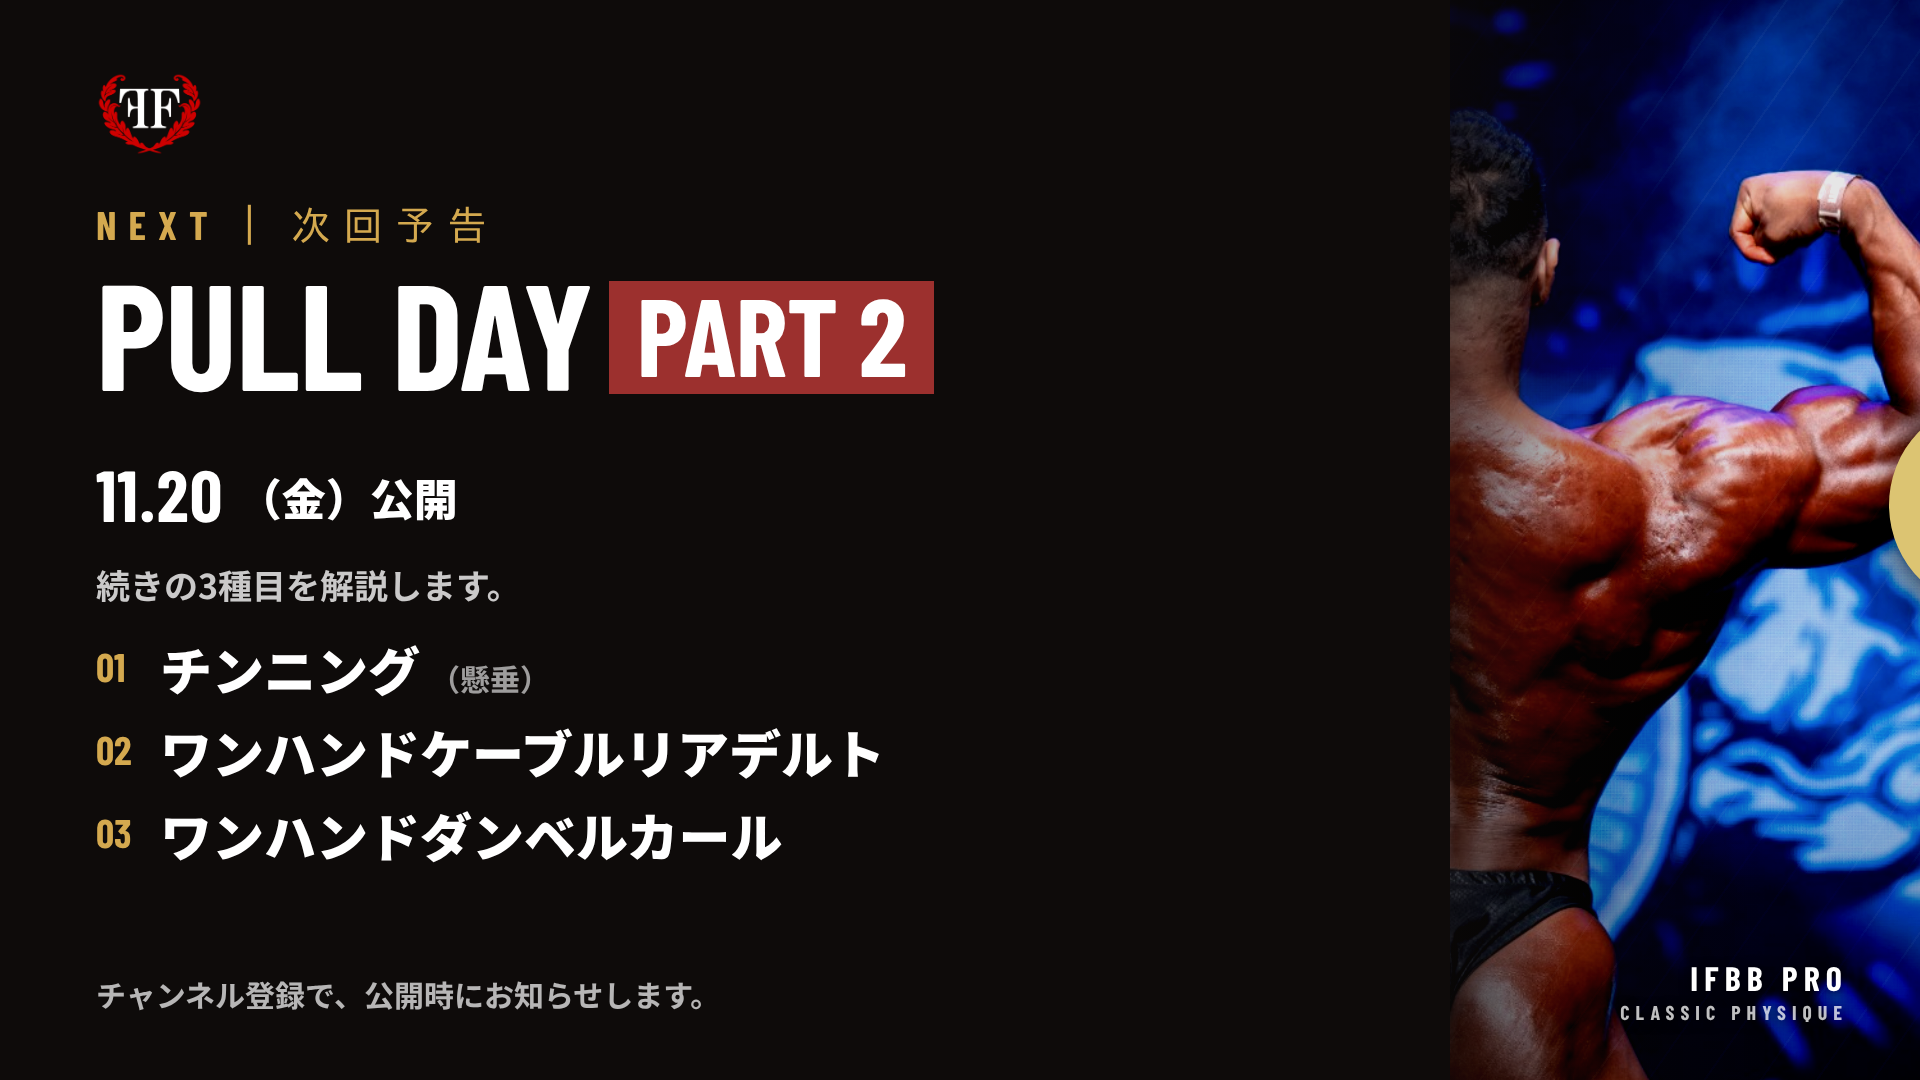
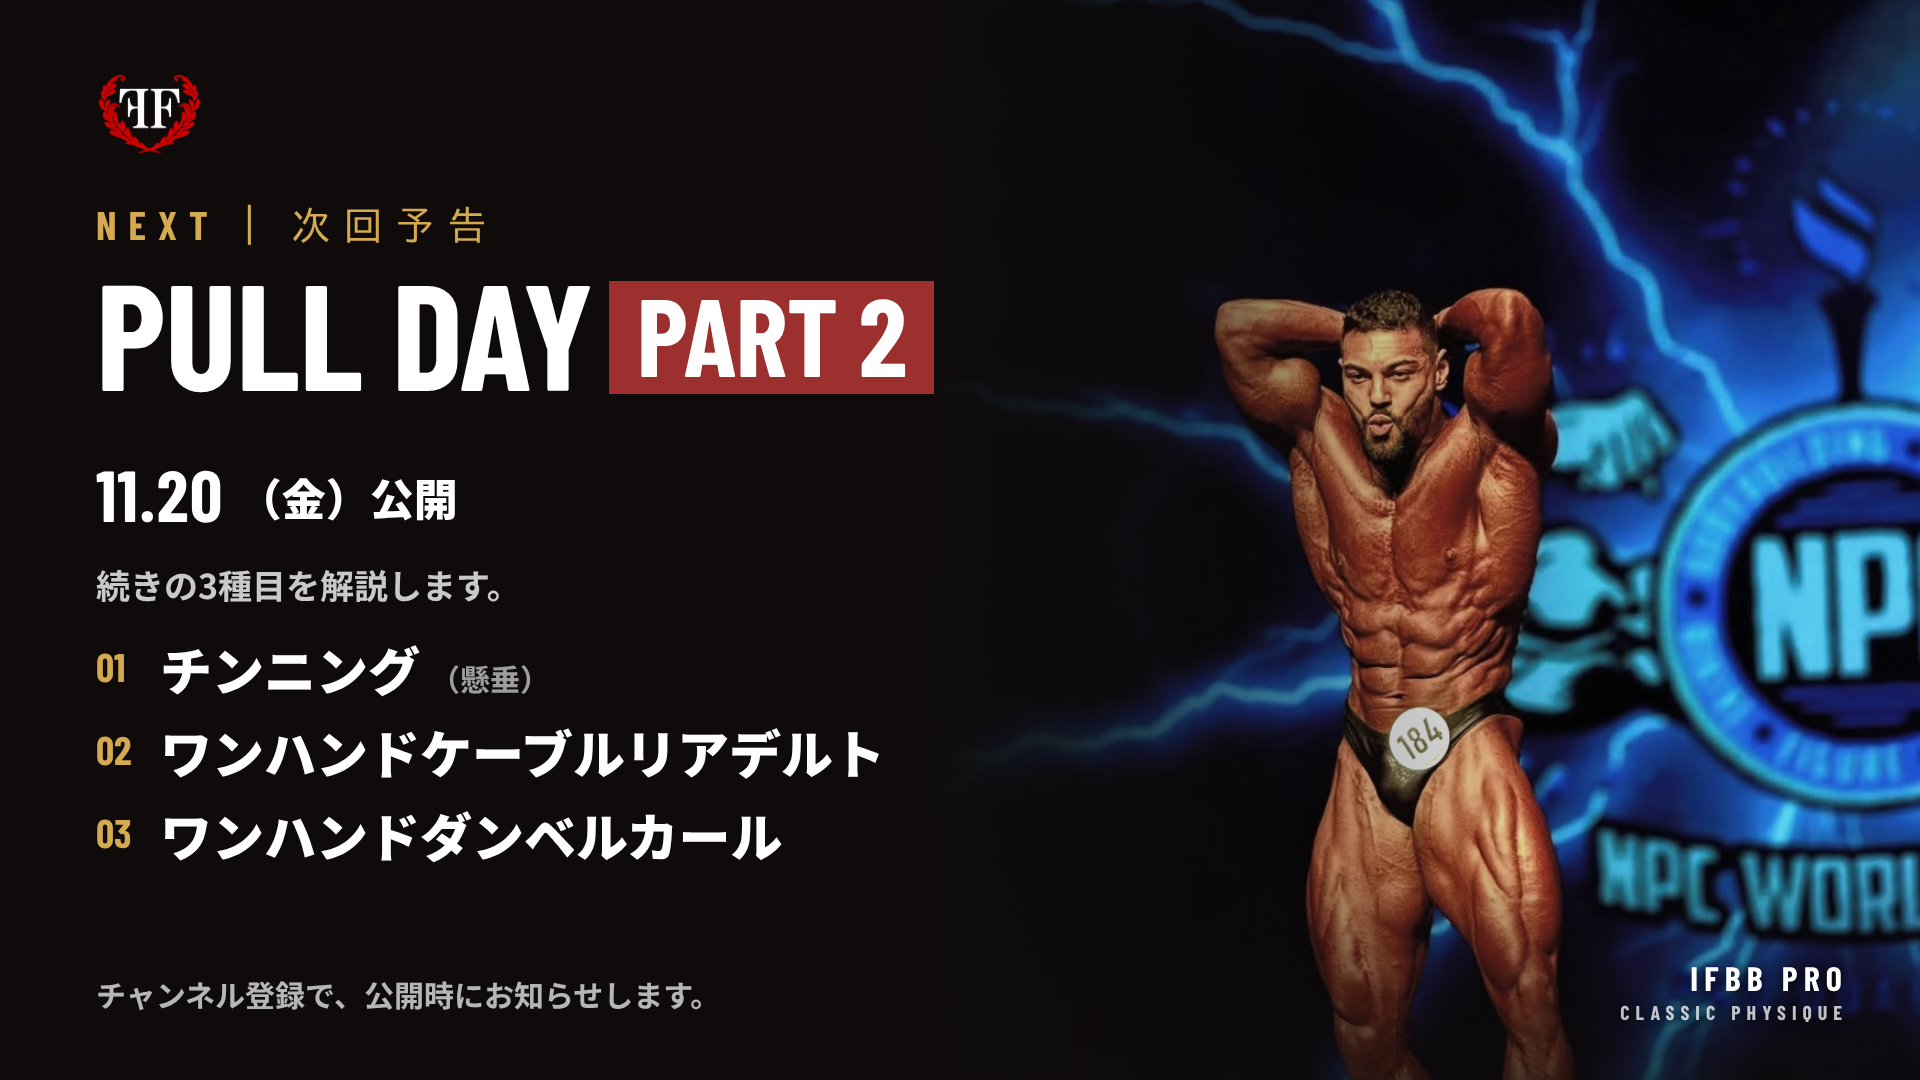
PULL DAY Part 2 next slide: supplied stage photo (#71)
* Add UPPER DAY YouTube thumbnails (part 1, 2) and the series thumbnail template

Claude-Session: https://claude.ai/code/session_01HRty6kL8VRnpLHHHzSF3iS

* UPPER DAY thumbnails: reframe to keep the face visible and hide the burned-in caption

Claude-Session: https://claude.ai/code/session_01HRty6kL8VRnpLHHHzSF3iS

* UPPER DAY thumbnails v2: loud yellow/red creator style, distinct from the community look

Claude-Session: https://claude.ai/code/session_01HRty6kL8VRnpLHHHzSF3iS

* UPPER DAY thumbnails v3: competition roar photo plus gym face chip

Claude-Session: https://claude.ai/code/session_01HRty6kL8VRnpLHHHzSF3iS

* UPPER DAY thumbnails: soften hook to Felipe's voice

Claude-Session: https://claude.ai/code/session_01HRty6kL8VRnpLHHHzSF3iS

* UPPER DAY thumbnails: keep the hook line on one row

Claude-Session: https://claude.ai/code/session_01HRty6kL8VRnpLHHHzSF3iS

* UPPER DAY thumbnails: hook label on one line

Claude-Session: https://claude.ai/code/session_01HRty6kL8VRnpLHHHzSF3iS

* UPPER DAY thumbnails on the brand guide: FF black base, white type, laurel red as the single accent, gym press photo; add visual identity PDF

Claude-Session: https://claude.ai/code/session_01HRty6kL8VRnpLHHHzSF3iS

* UPPER DAY thumbnail: three promise-led headline variants on the brand template

Claude-Session: https://claude.ai/code/session_01HRty6kL8VRnpLHHHzSF3iS

* Add post-live story images (thanks + next live 11/23) and story template
[…]

Changed region(s): [[0.5312, 0.0, 1.0, 1.0]]

diff --git a/assets/yt/next-template.html b/assets/yt/next-template.html
@@ -4,8 +4,8 @@
 @font-face{font-family:"BC";src:url("../fonts/node_modules/@fontsource/barlow-condensed/files/barlow-condensed-latin-700-normal.woff2") format("woff2");font-weight:700}
 *{margin:0;padding:0;box-sizing:border-box}html,body{width:1920px;height:1080px;overflow:hidden;background:#0E0B0A}
 body{font-family:"NS",sans-serif;color:#fff;position:relative}
-.bg{position:absolute;right:0;top:0;width:760px;height:1080px;background:url(back-clean.png) 100% 0%/auto 100% no-repeat;filter:saturate(.8) contrast(1.1) brightness(.9)}
-.fade{position:absolute;inset:0;background:linear-gradient(90deg,#0E0B0A 0%,#0E0B0A 64%,rgba(14,11,10,.8) 72%,rgba(14,11,10,.2) 82%,rgba(14,11,10,0) 92%)}
+.bg{position:absolute;right:0;top:0;width:1000px;height:1080px;background:url(abs.jpg) 38% 0%/auto 118% no-repeat;filter:saturate(.8) contrast(1.08) brightness(.95)}
+.fade{position:absolute;inset:0;background:linear-gradient(90deg,#0E0B0A 0%,#0E0B0A 48%,rgba(14,11,10,.85) 56%,rgba(14,11,10,.25) 70%,rgba(14,11,10,0) 84%),linear-gradient(180deg,rgba(14,11,10,0) 80%,rgba(14,11,10,.7) 100%)}
 .logo{position:absolute;left:96px;top:72px;height:84px}
 .lbl{position:absolute;left:96px;top:200px;font-family:"BC",sans-serif;font-size:40px;letter-spacing:.3em;color:#D4A94F}
 .title{position:absolute;left:96px;top:260px;font-family:"BC",sans-serif;font-size:150px;line-height:.95;letter-spacing:-.005em;white-space:nowrap}
